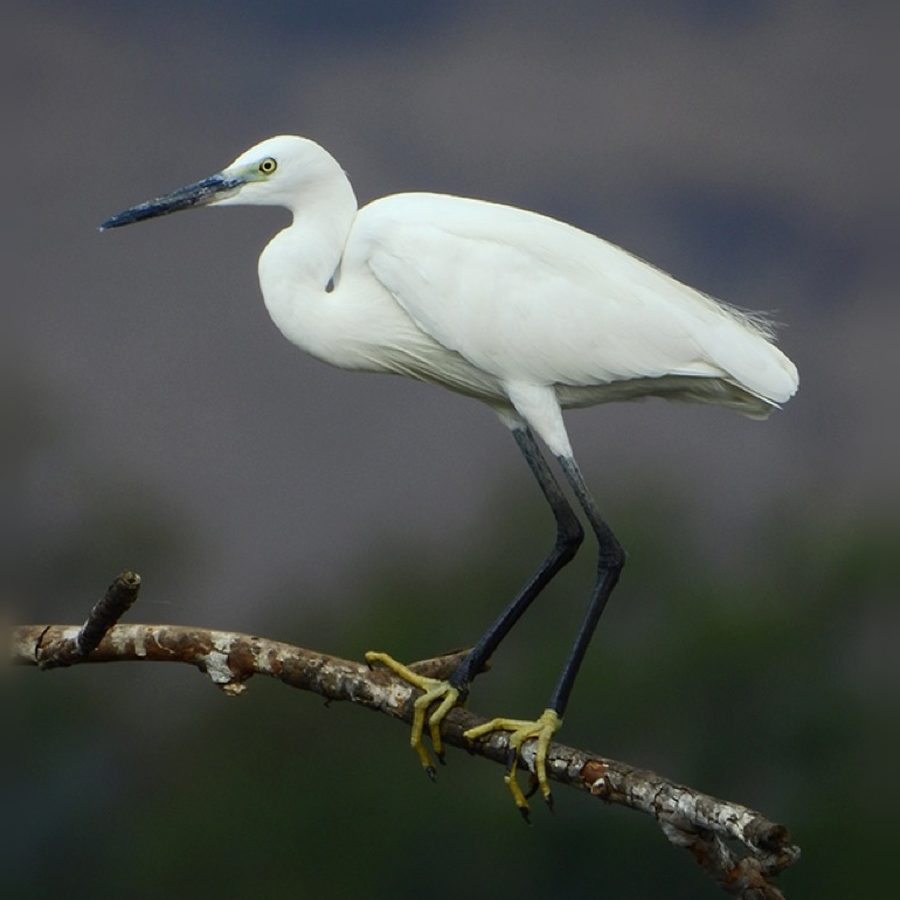
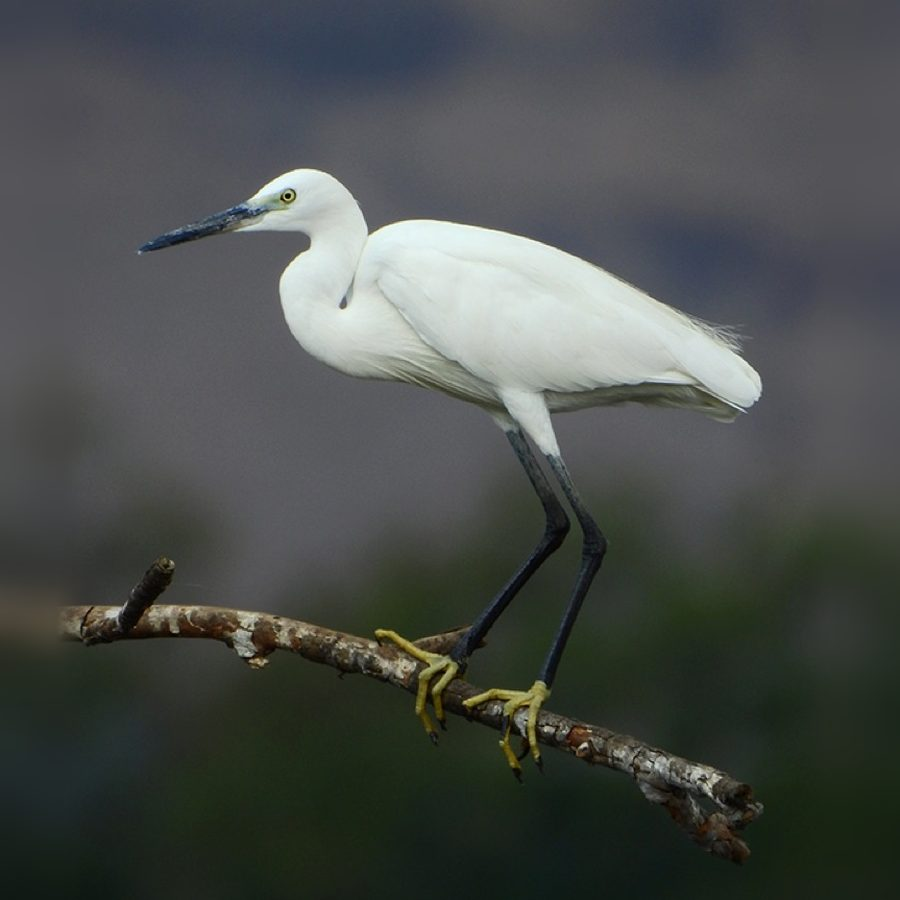
長身形的鳥（藍腹鷴、帝雉、台灣藍鵲等）裁切多留邊，整隻鳥都在圓框裡

Changed region(s): [[0.0, 0.1244, 0.9022, 1.0], [0.3422, 0.0622, 0.4978, 0.0933], [0.7467, 0.0311, 0.7778, 0.0622]]

diff --git a/tools/make_square.py b/tools/make_square.py
@@ -10,23 +10,25 @@ BOX = {
  'buzzard':(2,1,8.5,9), 'cattleegret':(2.5,0.5,9,8), 'cormorant':(1.8,1,9,9.5), 'dove':(1,1.5,9.6,8.5),
  'drongo':(1.3,2,8,8), 'egret':(0.9,2.7,9.2,8.3), 'goshawk':(2,0.8,9,9.5), 'greyheron':(1.2,1,7,9),
  'jacana':(1,0.5,8.5,9), 'kingfisher':(1,1.5,9,10), 'kite':(2,0.3,7.5,9.5), 'magpie':(2.5,2,9.3,8),
- 'magpie_tw':(0.8,2.8,7.6,8), 'mikado':(0.5,2,8.5,8.2), 'monarch':(2.8,2,9.3,7.5), 'moorhen':(0.6,1.5,7.5,9.5),
+ 'magpie_tw':(0.8,2.8,7.6,8), 'mikado':(0.3,1.6,9.2,8.4), 'monarch':(2.8,2,9.3,7.5), 'moorhen':(0.6,1.5,7.5,9.5),
  'myna':(2.5,1,9.2,9), 'nightheron':(1.5,1,9,9), 'nightheron_mal':(3.8,1.8,8,7.8), 'owl':(2.2,2,6.5,7.5),
  'partridge':(3,2,6.2,8.5), 'pigeon':(3,2.5,9.8,8), 'reddove':(1,3.3,7.5,9), 'serpenteagle':(2.8,0.5,8.3,8.5),
  'sparrow':(0.8,1,7.5,8), 'spoonbill':(2,0.5,8.6,8.5), 'stilt':(3.3,1,8.5,10), 'stylesbulbul':(1.5,1.5,7,9),
- 'swallow':(1.5,1.5,9,8), 'swinhoe':(1.8,1.5,9.3,8.2), 'treepie':(1.5,1.5,8,9), 'wagtail':(1,3.5,7.4,8.5),
+ 'swallow':(1.5,1.5,9,8), 'swinhoe':(1.2,1.2,9.8,8.4), 'treepie':(1.5,1.5,8,9), 'wagtail':(1,3.5,7.4,8.5),
  'whistlingthrush':(1.3,1.5,6.6,10), 'whiteeye':(1,2,8.5,8), 'yellowtit':(1.5,0.3,8,8.5), 'yuhina':(1.5,2.5,6.5,9),
 }
 ROOT = os.path.join(os.path.dirname(__file__), '..', 'assets', 'img')
 OUT = os.path.join(ROOT, 'sq'); os.makedirs(OUT, exist_ok=True)
 SIZE = 900
+# 身體長、頭在邊邊的鳥多留邊，讓頭離圓框遠一點
+PAD = {'swinhoe':1.22, 'mikado':1.22, 'magpie_tw':1.18, 'magpie':1.15, 'dove':1.15, 'greyheron':1.12, 'egret':1.12, 'wagtail':1.15, 'drongo':1.12, 'sparrow':1.1}
 
 for k, (x0, y0, x1, y1) in BOX.items():
     im = Image.open(os.path.join(ROOT, k + '.jpg')).convert('RGB'); W, H = im.size
     bx0, by0, bx1, by1 = x0*W/10, y0*H/10, x1*W/10, y1*H/10
     bw, bh = bx1-bx0, by1-by0
     # 圓形會切掉四角：正方形邊長要讓鳥的框大致落在內切圓裡
-    side = max(1.1*max(bw, bh), 0.92*math.hypot(bw, bh))
+    side = max(1.1*max(bw, bh), 0.92*math.hypot(bw, bh)) * PAD.get(k, 1.0)
     cx, cy = (bx0+bx1)/2, (by0+by1)/2
     # 能留在原圖內就平移，不夠才補模糊背景
     if side <= W: cx = min(max(cx, side/2), W-side/2)
